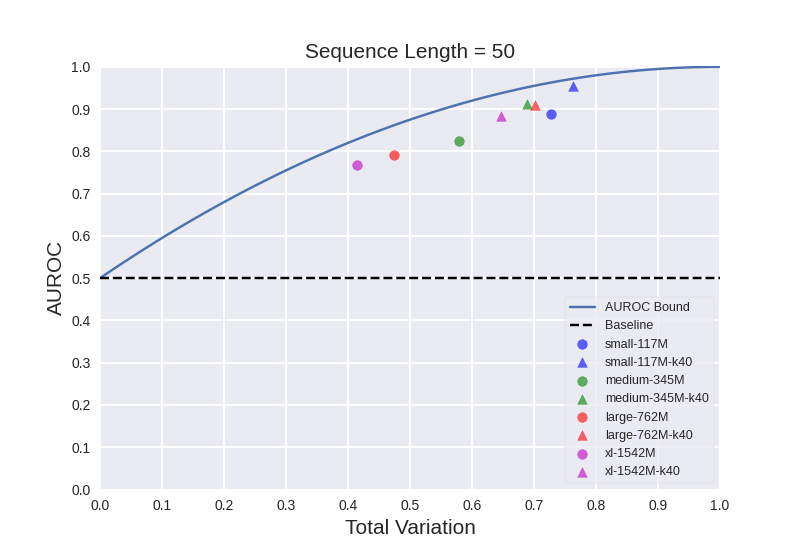
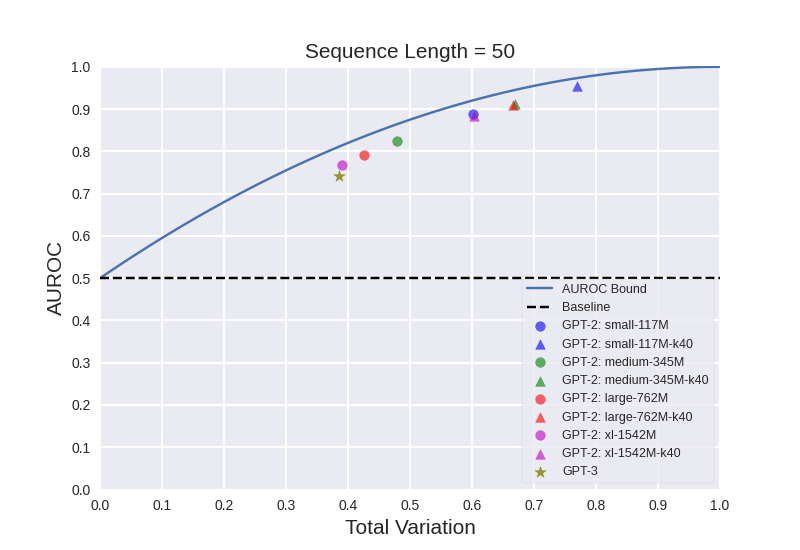
Experiments for GPT-3 outputs

diff --git a/impossibility/tv_estimation.py b/impossibility/tv_estimation.py
@@ -5,13 +5,11 @@ import json
 import os
 import torch
 from transformers import AutoTokenizer, AutoModelForSequenceClassification
-from sklearn.metrics import roc_auc_score
 from sklearn.linear_model import LogisticRegression
-import numpy as np
 
 # Hyperparameters
 batch_size = 100
-seq_len = 50
+seq_len = 25
 
 # Function to estimate total variation using Linear classification on the features
 def tv_estimate(webtext_features, gpt2_features):
@@ -22,11 +20,23 @@ def tv_estimate(webtext_features, gpt2_features):
     # Scale the features
     X = (X - X.mean(dim=0)) / X.std(dim=0)
 
-    # Train a linear classifier
-    clf = LogisticRegression(random_state=0, max_iter=2000).fit(X, y)
+    # Shuffle the data
+    perm = torch.randperm(X.shape[0])
+    X = X[perm]
+    y = y[perm]
 
-    # Predict the labels
-    y_pred = clf.predict_proba(X)[:,1]
+    # Split the data into train and test
+    split = int(0.75 * X.shape[0])
+    X_train = X[:split]
+    y_train = y[:split]
+    X_test = X[split:]
+    y_test = y[split:]
+
+    # Train a linear classifier
+    clf = LogisticRegression(random_state=0, max_iter=2000).fit(X_train, y_train)
+
+    # Predict the labels for the test data
+    y_pred = clf.predict_proba(X_test)[:,1]
 
     # Threshold the predictions
     y_pred[y_pred >= 0.5] = 1
@@ -37,14 +47,14 @@ def tv_estimate(webtext_features, gpt2_features):
     fp = 0
     tn = 0
     fn = 0
-    for i in range(len(y)):
-        if y[i] == 1 and y_pred[i] == 1:
+    for i in range(len(y_test)):
+        if y_test[i] == 1 and y_pred[i] == 1:
             tp += 1
-        elif y[i] == 0 and y_pred[i] == 1:
+        elif y_test[i] == 0 and y_pred[i] == 1:
             fp += 1
-        elif y[i] == 0 and y_pred[i] == 0:
+        elif y_test[i] == 0 and y_pred[i] == 0:
             tn += 1
-        elif y[i] == 1 and y_pred[i] == 0:
+        elif y_test[i] == 1 and y_pred[i] == 0:
             fn += 1
 
     # Find rates
@@ -58,7 +68,7 @@ def tv_estimate(webtext_features, gpt2_features):
 # List of datasets to evaluate
 datasets = [
     'webtext',      # Human-generated text
-    'small-117M',  'small-117M-k40',    # Machine-generated text
+    'small-117M',  'small-117M-k40',    # Machine-generated text from GPT-2
     'medium-345M', 'medium-345M-k40',
     'large-762M',  'large-762M-k40',
     'xl-1542M',    'xl-1542M-k40',
@@ -76,6 +86,14 @@ for ds in datasets:
     if not os.path.exists(os.path.join(data_dir, filename)):
         print("Downloading dataset: %s" % ds)
         os.system('wget ' + url_prefix + filename + ' -P ' + data_dir)
+
+# Download GPT-3 output dataset
+url_prefix = 'https://github.com/openai/gpt-3/raw/master/'
+filename = '175b_samples.jsonl'
+
+if not os.path.exists(os.path.join(data_dir, filename)):
+    print("Downloading dataset: %s" % ds)
+    os.system('wget ' + url_prefix + filename + ' -P ' + data_dir)
 
 # Load datasets into memory from data directory
 gpt2 = {}
@@ -96,11 +114,19 @@ for ds in datasets:
         
         print('Loaded dataset %s with %d samples' % (ds, len(gpt2[ds])))
 
+# Load GPT-3 dataset
+gpt3 = []
+with open(os.path.join(data_dir, '175b_samples.jsonl'), 'r') as f:
+    for line in f:
+        gpt3.append(json.loads(line))
+
+print('Loaded dataset %s with %d samples' % ('gpt3', len(gpt3)))
 
 # Load semantic features model
 print("Loading semantic features model")
-model = AutoModelForSequenceClassification.from_pretrained('roberta-base')
-tokenizer = AutoTokenizer.from_pretrained('roberta-base')
+model_name = 'roberta-base-openai-detector'     # 'roberta-base'
+model = AutoModelForSequenceClassification.from_pretrained(model_name)
+tokenizer = AutoTokenizer.from_pretrained(model_name)
 model.eval()
 
 # Set PyTorch device to CUDA
@@ -150,6 +176,23 @@ for ds in datasets:
         print("Estimating total variation between WebText and GPT-2 dataset: %s" % ds)
         tv[ds] = tv_estimate(webtext_features, gpt2_features)
         print("Total variation between WebText and GPT-2 dataset: %s is: %f" % (ds, tv[ds]))
+
+# Evaluate model on GPT-3 dataset and compute total variation
+print("Evaluating model on GPT-3 dataset")
+gpt3_features = torch.zeros((len(gpt3), num_features))
+for i in range(0, len(gpt3), batch_size):
+    batch = gpt3[i:i+batch_size]
+    batch = tokenizer(batch, padding=True, truncation=True, max_length=seq_len, return_tensors='pt')
+    batch = {k: v.to(device) for k, v in batch.items()}
+    with torch.no_grad():
+        model(**batch)
+    gpt3_features[i:i+batch_size] = activations[0]
+    activations = []
+
+# Estimate total variation
+print("Estimating total variation between WebText and GPT-3 dataset")
+tv['gpt3'] = tv_estimate(webtext_features, gpt3_features)
+print("Total variation between WebText and GPT-3 dataset is: %f" % tv['gpt3'])
 
 # Update tv estimates in JSON file
 json_file = 'tv_estimates.json'

diff --git a/impossibility/empirical_evaluation.py b/impossibility/empirical_evaluation.py
@@ -5,12 +5,14 @@
 import json
 import os
 import torch
+import numpy as np
+
 from transformers import AutoTokenizer, AutoModelForSequenceClassification
-from sklearn.metrics import roc_auc_score
+from sklearn.metrics import roc_auc_score, roc_curve
 
 # Hyperparameters
-batch_size = 100
-seq_len = 25
+batch_size = 50     # 100
+seq_len = 100
 
 # List of datasets to evaluate
 datasets = [
@@ -34,6 +36,14 @@ for ds in datasets:
         print("Downloading dataset: %s" % ds)
         os.system('wget ' + url_prefix + filename + ' -P ' + data_dir)
 
+# Download GPT-3 output dataset
+url_prefix = 'https://github.com/openai/gpt-3/raw/master/'
+filename = '175b_samples.jsonl'
+
+if not os.path.exists(os.path.join(data_dir, filename)):
+    print("Downloading dataset: %s" % ds)
+    os.system('wget ' + url_prefix + filename + ' -P ' + data_dir)
+
 # Load datasets into memory from data directory
 gpt2 = {}
 for ds in datasets:
@@ -52,6 +62,14 @@ for ds in datasets:
                 gpt2[ds].append(json.loads(line)['text'])
         
         print('Loaded dataset %s with %d samples' % (ds, len(gpt2[ds])))
+
+# Load GPT-3 dataset
+gpt3 = []
+with open(os.path.join(data_dir, '175b_samples.jsonl'), 'r') as f:
+    for line in f:
+        gpt3.append(json.loads(line))
+
+print('Loaded dataset %s with %d samples' % ('gpt3', len(gpt3)))
 
 # Load OpenAI detector
 print("Loading OpenAI detector")
@@ -102,17 +120,44 @@ for ds in datasets:
         scores = torch.softmax(logits, dim=1)[:,1].tolist()
         gpt2_scores[ds] = torch.cat((gpt2_scores[ds], torch.tensor(scores)))
 
+# Evaluate OpenAI detector on GPT-3 dataset
+print("Evaluating OpenAI detector on GPT-3 dataset")
+gpt3_scores = torch.empty(0)
 
-# Calculate AUROC from scores
-print("Calculating AUROC")
+for i in range(0, len(gpt3), batch_size):
+    # print("Batch %d" % (i // batch_size))
+    batch = gpt3[i:i+batch_size]
+
+    # Collect scores
+    inputs = detector_tokenizer(batch, return_tensors="pt", max_length=seq_len, truncation=True, padding=True)
+    inputs.to(device)
+    outputs = detector(**inputs)
+    logits = outputs[0]
+    scores = torch.softmax(logits, dim=1)[:,1].tolist()
+    gpt3_scores = torch.cat((gpt3_scores, torch.tensor(scores)))
+
+# Calculate AUROC and TV from scores
+print("Calculating AUROC and TV")
 auroc = {}
+tv = {}
+
+# Calculate AUROC and TV for GPT-2 datasets
 for ds in datasets:
     if ds == 'webtext':
         continue
     
-    y_true = torch.cat((torch.ones(gpt2_scores[ds].shape[0]), torch.zeros(webtext_scores.shape[0])))
+    y_true = torch.cat((torch.ones(webtext_scores.shape[0]), torch.zeros(gpt2_scores[ds].shape[0])))
     y_pred = torch.cat((webtext_scores, gpt2_scores[ds]))
     auroc[ds] = roc_auc_score(y_true, y_pred)
+    tpr, fpr, _ = roc_curve(y_true, y_pred)
+    tv[ds] = np.max(np.abs(tpr - fpr))
+
+# Calculate AUROC and TV for GPT-3 dataset
+y_true = torch.cat((torch.ones(webtext_scores.shape[0]), torch.zeros(gpt3_scores.shape[0])))
+y_pred = torch.cat((webtext_scores, gpt3_scores))
+auroc['gpt3'] = roc_auc_score(y_true, y_pred)
+tpr, fpr, _ = roc_curve(y_true, y_pred)
+tv['gpt3'] = np.max(np.abs(tpr - fpr))
 
 # Update AUROC in JSON file
 json_file = 'auroc.json'
@@ -126,3 +171,16 @@ auroc_json['seq_len_' + str(seq_len)] = auroc
 
 with open(json_file, 'w') as f:
     json.dump(auroc_json, f, indent=2)
+
+# Update TV in JSON file
+json_file = 'tv_from_scores.json'
+tv_json = {}
+print("Saving TV to %s" % json_file)
+if os.path.exists(json_file):
+    with open(json_file, 'r') as f:
+        tv_json = json.load(f)
+
+tv_json['seq_len_' + str(seq_len)] = tv
+
+with open(json_file, 'w') as f:
+    json.dump(tv_json, f, indent=2)

diff --git a/impossibility/plot_auroc.py b/impossibility/plot_auroc.py
@@ -35,12 +35,14 @@ for seq_len in [25, 50, 75, 100]:
     ypoints2 = np.array([0.5, 0.5])
     plt.plot(xpoints2, ypoints2, 'k--', label='Baseline')
 
-    with open('tv_estimates.json', 'r') as f:
+    tv_filename = 'tv_from_scores.json'      # 'tv_estimates.json'
+    with open(tv_filename, 'r') as f:
         tv_json = json.load(f)
 
     with open('auroc.json', 'r') as f:
         auroc_json = json.load(f)
 
+    # Plot empirical AUROC vs. TV for GPT-2 datasets
     for ds in datasets:
         if ds == 'webtext':
             continue
@@ -65,7 +67,13 @@ for seq_len in [25, 50, 75, 100]:
         plt.scatter(tv_json['seq_len_' + str(seq_len)][ds],
                     auroc_json['seq_len_' + str(seq_len)][ds],
                     marker=mark, c=color, alpha=0.6,
-                    label=ds)
+                    label='GPT-2: ' + ds)
+
+    # Plot empirical AUROC vs. TV for GPT-3 dataset
+    plt.scatter(tv_json['seq_len_' + str(seq_len)]['gpt3'],
+                auroc_json['seq_len_' + str(seq_len)]['gpt3'],
+                marker='*', c='olive', s=75, alpha=0.8,
+                label='GPT-3')
 
     # Plot formatting
     plt.title('Sequence Length = ' + str(seq_len), fontsize=15)
